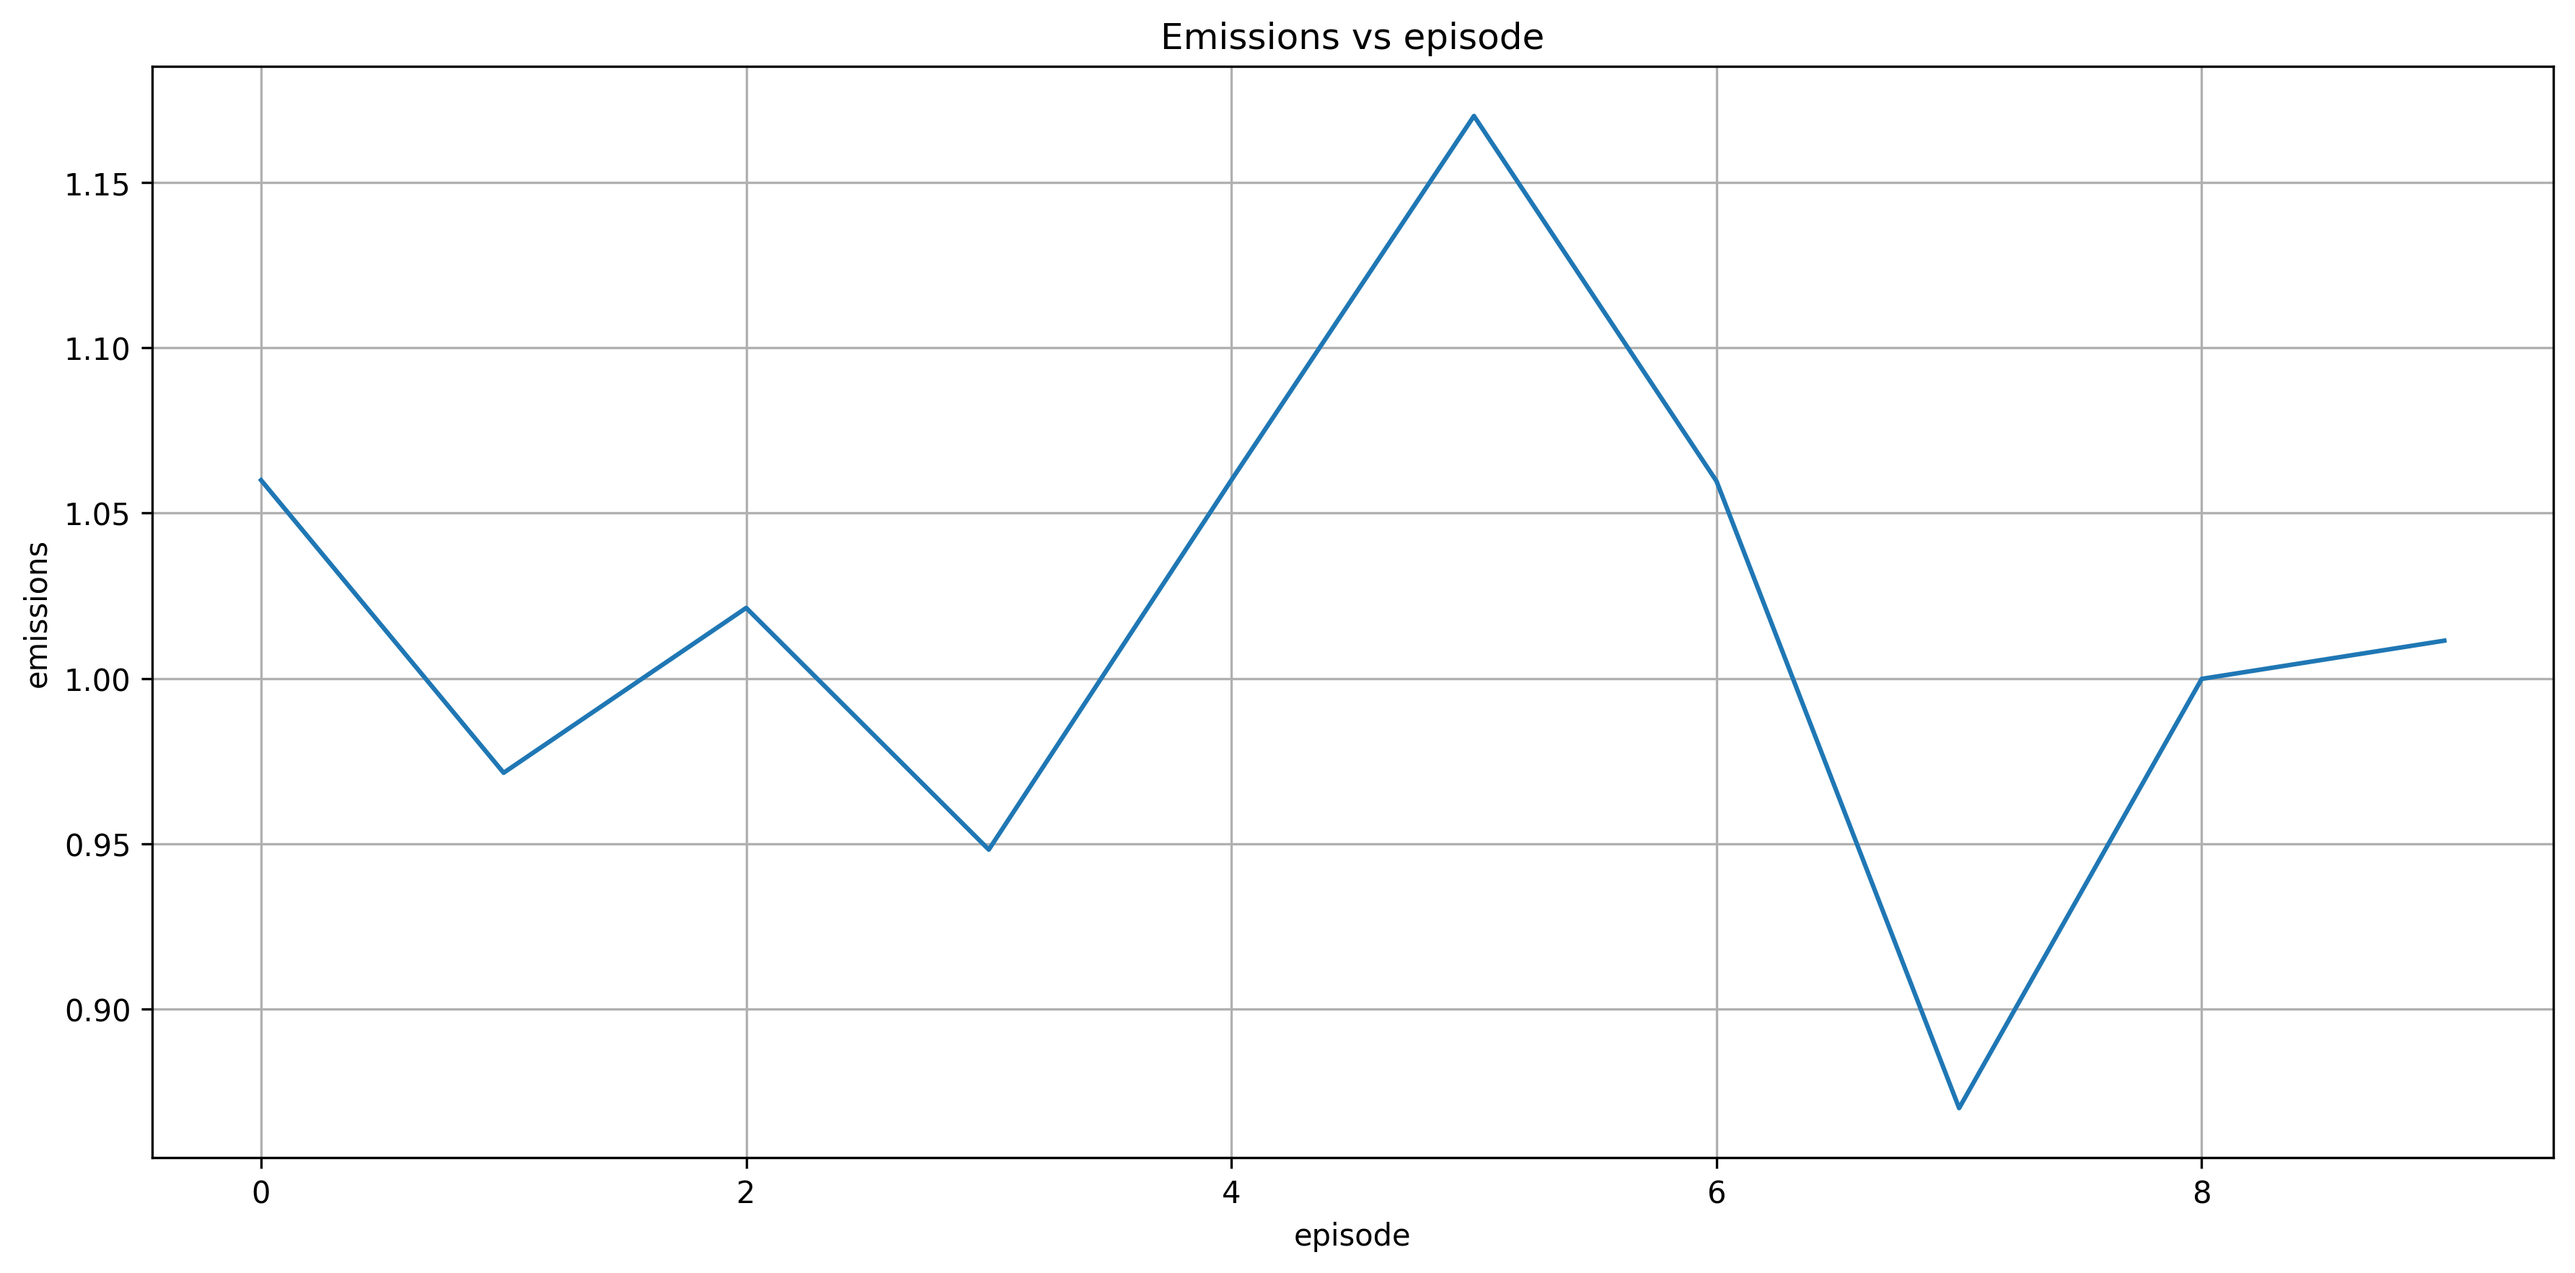
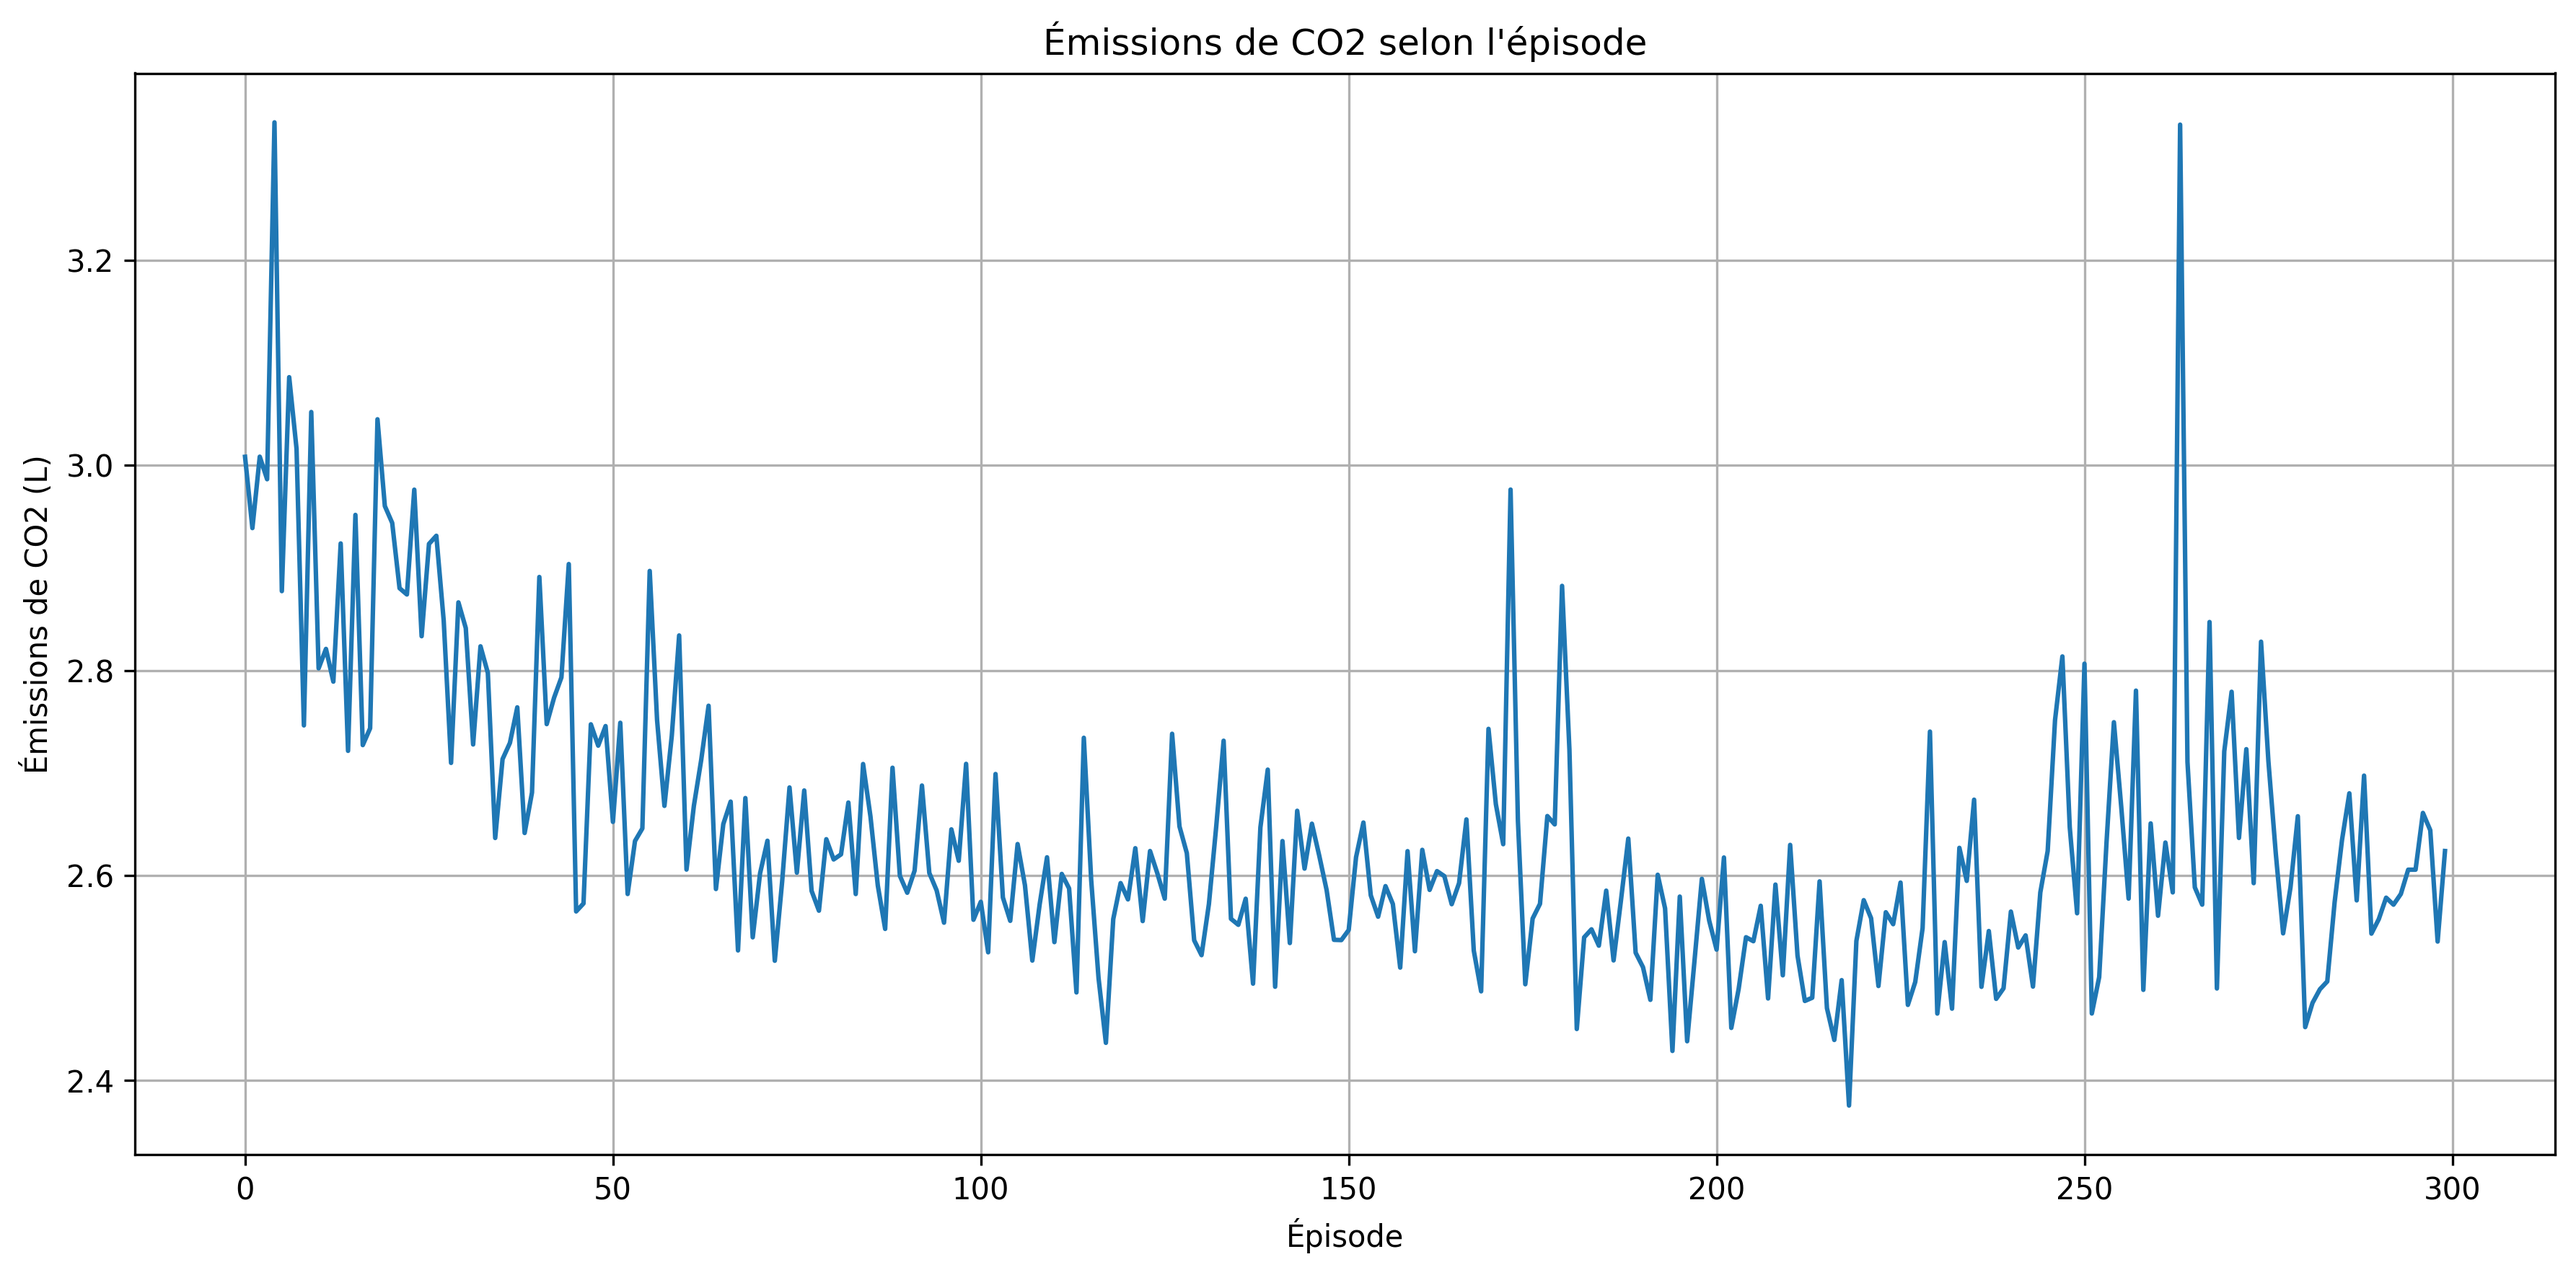
number of episode

diff --git a/simauto/test.py b/simauto/test.py
@@ -5,40 +5,8 @@ import simauto.register_env  # must import to register the env
 import torch as T
 import numpy as np
 from dqn import *
+from agent import DQNAgent, state_tensor
 
-def state_tensor(obs):
-    return T.FloatTensor(np.concatenate([
-        obs["pressure"].astype(np.float32),
-        obs["nearest"].astype(np.float32),
-        #np.array(obs["lights"], dtype=np.float32)
-    ])).to(device)
-
-class DQNAgent:
-    def __init__(self, input_dim, output_dim, gamma=0.99, epsilon=1.0, lr=0.001):
-        self.q_net = DeepQNetwork(input_dim, output_dim).to(device)
-        self.target_net = DeepQNetwork(input_dim, output_dim).to(device)
-        self.optimizer = optim.Adam(self.q_net.parameters(), lr=lr)
-        self.gamma = gamma
-        self.epsilon = epsilon
-        self.buffer = ReplayBuffer(max_size=25000)
-        self.update_target_network()  # Initialize target = online
-
-    def update_target_network(self):
-        self.target_net.load_state_dict(self.q_net.state_dict())
-
-    def act(self, state):
-        if np.random.random() < self.epsilon:
-            return np.random.randint(6)  # Random action
-        else:
-            with T.no_grad():
-                q_values = self.q_net(state)
-                return T.argmax(q_values).item()
-
-    def save(self, path):
-        T.save(self.q_net.state_dict(), path)
-
-    def load(self, path):
-        self.q_net.load_state_dict(T.load(path, map_location=device))
 
 device = T.device("cuda" if T.cuda.is_available() else "cpu")
 env = gym.make("Intersection-v0", render_mode=None, step_length=6.0)
@@ -57,7 +25,7 @@ episode_epsilons = []
 episode_mean_wait = []
 episode_emissions = []
 total_steps = 0
-n_episode = 100
+n_episode = 300
 for episode in range(n_episode):
     obs, _ = env.reset()
     state = state_tensor(obs)
@@ -119,8 +87,8 @@ path = "model0.txt"
 agent.save(path)
 
 episodes = [[i] for i in range(n_episode)]
-plot_graph(episodes, episode_rewards, "reward-episode.png", "Reward vs episode", "episode", "reward")
-plot_graph(episodes, episode_epsilons, "epsilon-episode.png", "Epsilon vs episode", "episode", "epsilon")
-plot_graph(episodes, episode_mean_wait, "mean_wait-episode.png", "Mean wait vs episode", "episode", "mean wait")
-plot_graph(episodes, episode_emissions, "emissions-episode.png", "Emissions vs episode", "episode", "emissions")
+plot_graph(episodes, episode_rewards, "reward-episode.png", "Récompense selon l'épisode", "Épisode", "Récompense")
+plot_graph(episodes, episode_epsilons, "epsilon-episode.png", "Valeur d'epsilon selon l'épisode", "Épisode", "ε")
+plot_graph(episodes, episode_mean_wait, "mean_wait-episode.png", "Temps d'attente moyen à l'intersection selon l'épisode", "Épisode", "Temps d'attente moyen")
+plot_graph(episodes, episode_emissions, "emissions-episode.png", "Émissions de CO2 selon l'épisode", "Épisode", "Émissions de CO2 (L)")
 env.close()

diff --git a/simauto/agent.py b/simauto/agent.py
@@ -1,0 +1,41 @@
+# agent.py
+import torch as T
+import torch.nn as nn
+import torch.optim as optim
+import numpy as np
+from dqn import DeepQNetwork, ReplayBuffer  # make sure these are in dqn.py
+
+device = T.device("cuda" if T.cuda.is_available() else "cpu")
+
+def state_tensor(obs):
+    return T.FloatTensor(np.concatenate([
+        obs["pressure"].astype(np.float32),
+        obs["nearest"].astype(np.float32),
+    ])).to(device)
+
+class DQNAgent:
+    def __init__(self, input_dim, output_dim, gamma=0.99, epsilon=1.0, lr=0.001):
+        self.q_net = DeepQNetwork(input_dim, output_dim).to(device)
+        self.target_net = DeepQNetwork(input_dim, output_dim).to(device)
+        self.optimizer = optim.Adam(self.q_net.parameters(), lr=lr)
+        self.gamma = gamma
+        self.epsilon = epsilon
+        self.buffer = ReplayBuffer(max_size=25000)
+        self.update_target_network()
+
+    def update_target_network(self):
+        self.target_net.load_state_dict(self.q_net.state_dict())
+
+    def act(self, state):
+        if np.random.random() < self.epsilon:
+            return np.random.randint(6)
+        else:
+            with T.no_grad():
+                q_values = self.q_net(state)
+                return T.argmax(q_values).item()
+
+    def save(self, path):
+        T.save(self.q_net.state_dict(), path)
+
+    def load(self, path):
+        self.q_net.load_state_dict(T.load(path, map_location=device))

diff --git a/simauto/demo.py b/simauto/demo.py
@@ -1,0 +1,31 @@
+import gymnasium as gym
+import simauto.register_env
+from dqn import *  # This should include your DeepQNetwork and ReplayBuffer if needed
+from agent import DQNAgent, state_tensor
+
+device = T.device("cuda" if T.cuda.is_available() else "cpu")
+
+# Create environment and agent
+env = gym.make("Intersection-v0", render_mode="human", step_length=0.25)
+input_dim = 4 + 4  # pressure + nearest
+output_dim = 6
+agent = DQNAgent(input_dim, output_dim)
+agent.load("model0.txt")  # Load the trained model
+
+# Disable exploration for demo
+agent.epsilon = 0.0
+
+# Run one episode for demo
+obs, _ = env.reset()
+state = state_tensor(obs)
+done = False
+
+while not done:
+    action = agent.act(state)
+    next_obs, reward, terminated, truncated, _ = env.step(action)
+    state = state_tensor(next_obs)
+    env.render()
+    print(len(env.unwrapped.sim.cars))
+    #done = terminated or truncated
+
+env.close()

diff --git a/simauto/sim.py b/simauto/sim.py
@@ -421,7 +421,7 @@ class CarRecord:
         # Notes for emissions:
         # Fuel consumption for constant 30 kph: 5.9 L/100 km                        : Source article
         # Fuel consumption for acceleration from 0->30 kph in 10 sec. = 0.014 L     : Source article
-        # Fuel consumption idle = 0.6 L/h                                           : mesuré nous même
+        # Fuel consumption idle = 0.6 L/h                                           : Mesuré nous même
 
 
 @dataclass

diff --git a/simauto/intersection.py b/simauto/intersection.py
@@ -86,7 +86,7 @@ class IntersectionEnv(gym.Env):
 
         self.mean_waits = []
 
-        self.episode_end_threshold = 100 # in numbers of cars passed
+        self.episode_end_threshold = 1000000 # in numbers of cars passed
 
         self.action_space = spaces.Discrete(6)
         self.observation_space = gym.spaces.Dict({
